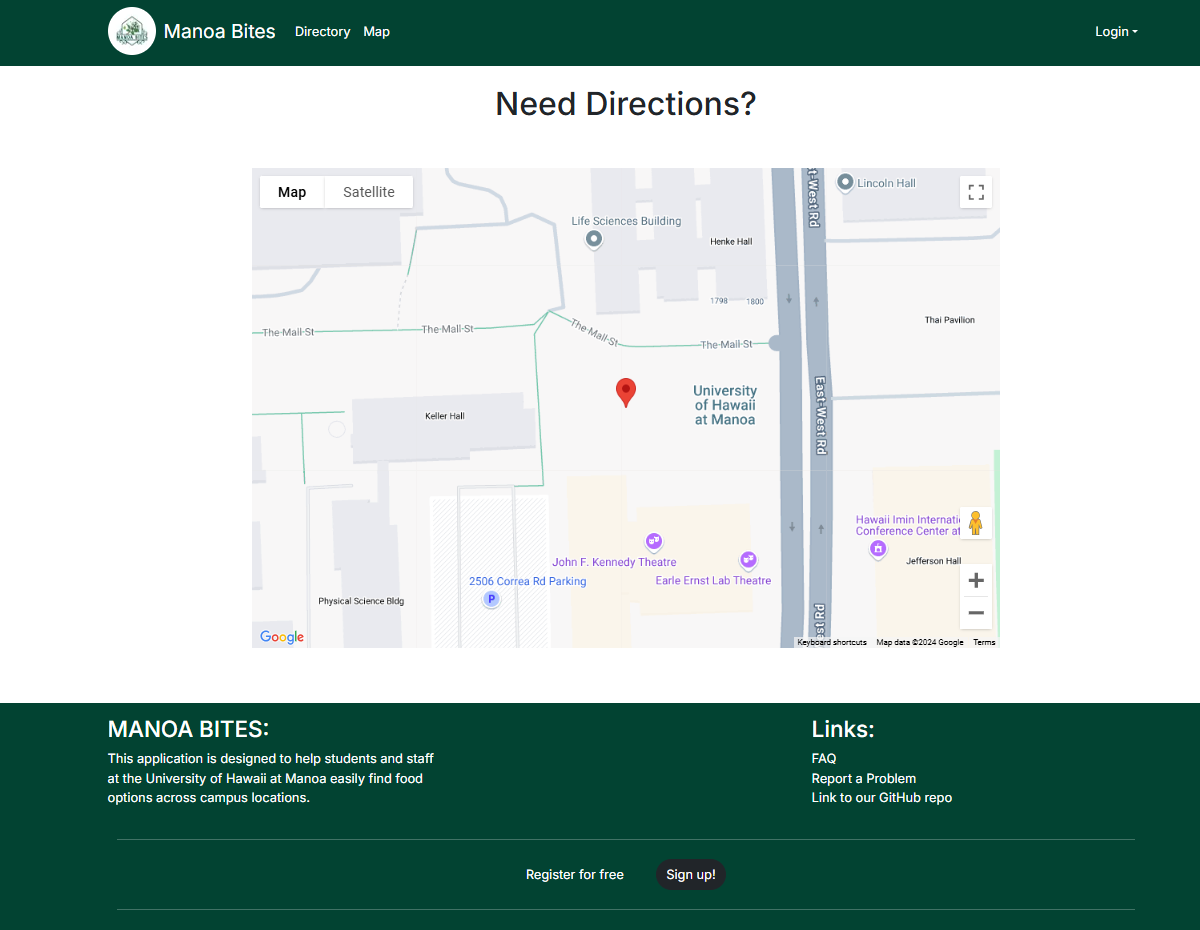
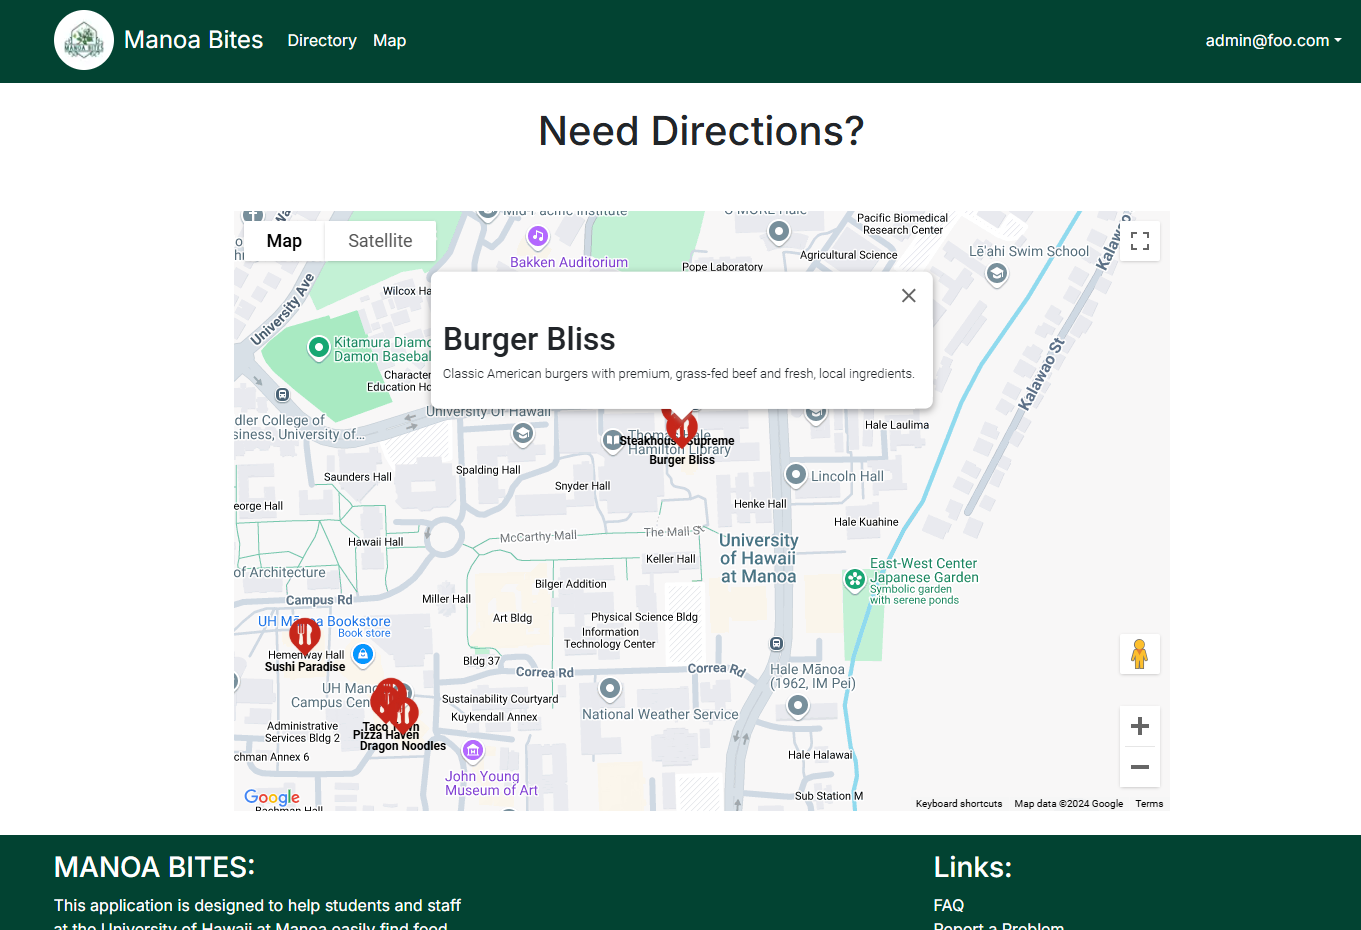
update with M2pics and M3 project

diff --git a/index.md b/index.md
@@ -40,16 +40,16 @@ This section provides a walkthrough of the Manoa Bites user interface and its ca
 
 ### Landing Page/Directory
 
-<img width="100%" src="assets/m1landingpage.png" alt="Current Landing Page">
+<img width="100%" src="assets/landingpage.png" alt="Current Landing Page">
 
-The landing page of Manoa Bites brings up this page where they are already presented with cards displaying restaurants and their restaurants.
+The landing page of Manoa Bites brings up this page where they are already presented with cards displaying restaurants and their restaurants. We are currently in the middle of testing the functions to add/edit restaurants so our images are not fully uploaded yet. We also added a search bar that has zero functionality yet that we hope to get finished in M3.
 
 
 ### Map Page
 
 <img width="100%" src="assets/mappage.png" alt="Current Map Page">
 
-The Map index page is available to preview without having to log-in and displays an interactive Map centered at UH Manoa's Campus.
+The Map index page is available to preview without having to log-in and displays an interactive Map centered at UH Manoa's Campus. There are markers here that make the locations easy to find.
 
 ### Sign in and Sign up
 
@@ -87,6 +87,22 @@ This form features a dropdown selection for topics that will allow for easier so
 
 <img width="100%" src="assets/issueformdropdown.png" alt="Current Issue Form Topics">
 
+### Admin Page
+
+When logged into the admin account, there is an option in the dropdown menu after clicking on your email.
+
+<img width="100%" src="assets/admindropdown.png" alt="How to access admin information">
+
+Clicking on Admin will take you to this page where the Admin can easily view current Restaurants, Locations, User, and Reported Issues
+
+<img width="100%" src="assets/adminpage.png" alt="How to access admin information">
+
+### Vendor Page
+
+When logged in as a vendor, the same dropdown tab is available for Vendors but will only display their restaurant they add where they can edit, delete, or add a new restaurant.
+
+<img width="100%" src="assets/vendorpage.png" alt="How to access vendor only information">
+
 ## Development History
 
 ### Milestone #1: Rough drafts
@@ -103,13 +119,15 @@ For this Milestone, we primarily focused on setting up simple database models an
 
 In this upcoming Milestone we plan to add more information and functionality to our page. With our restaurant cards we aim to add more information about the restaurant(i.e. an image/logo, hours of operations, and brief description). Also we still need to make the favorites button on the restaurant card functional where it will save it to the Users favorites. 
 
-<img width="100%" src="assets/m2backlog.png" alt="M2 done ish">
+<img width="100%" src="assets/m2backlog.png" alt="M2 done">
 
 ### Milestone #3: Finishing Touches
 
 <a href="https://github.com/orgs/manoa-bites/projects/6/views/1">Here is the link to our M3 project page.</a>
 
-In this Milestone we hope to correct the errors we encountered in Milestone 2 so that the page is fully functioning again.
+In this Milestone we hope to finalize our model database and add the remaining restaurants in our page. We will be refining other elements as well such as our google map and our search bar.
+
+<img width="100%" src="assets/m3backlog.png" alt="M3 start">
 
 <!-- 
 
